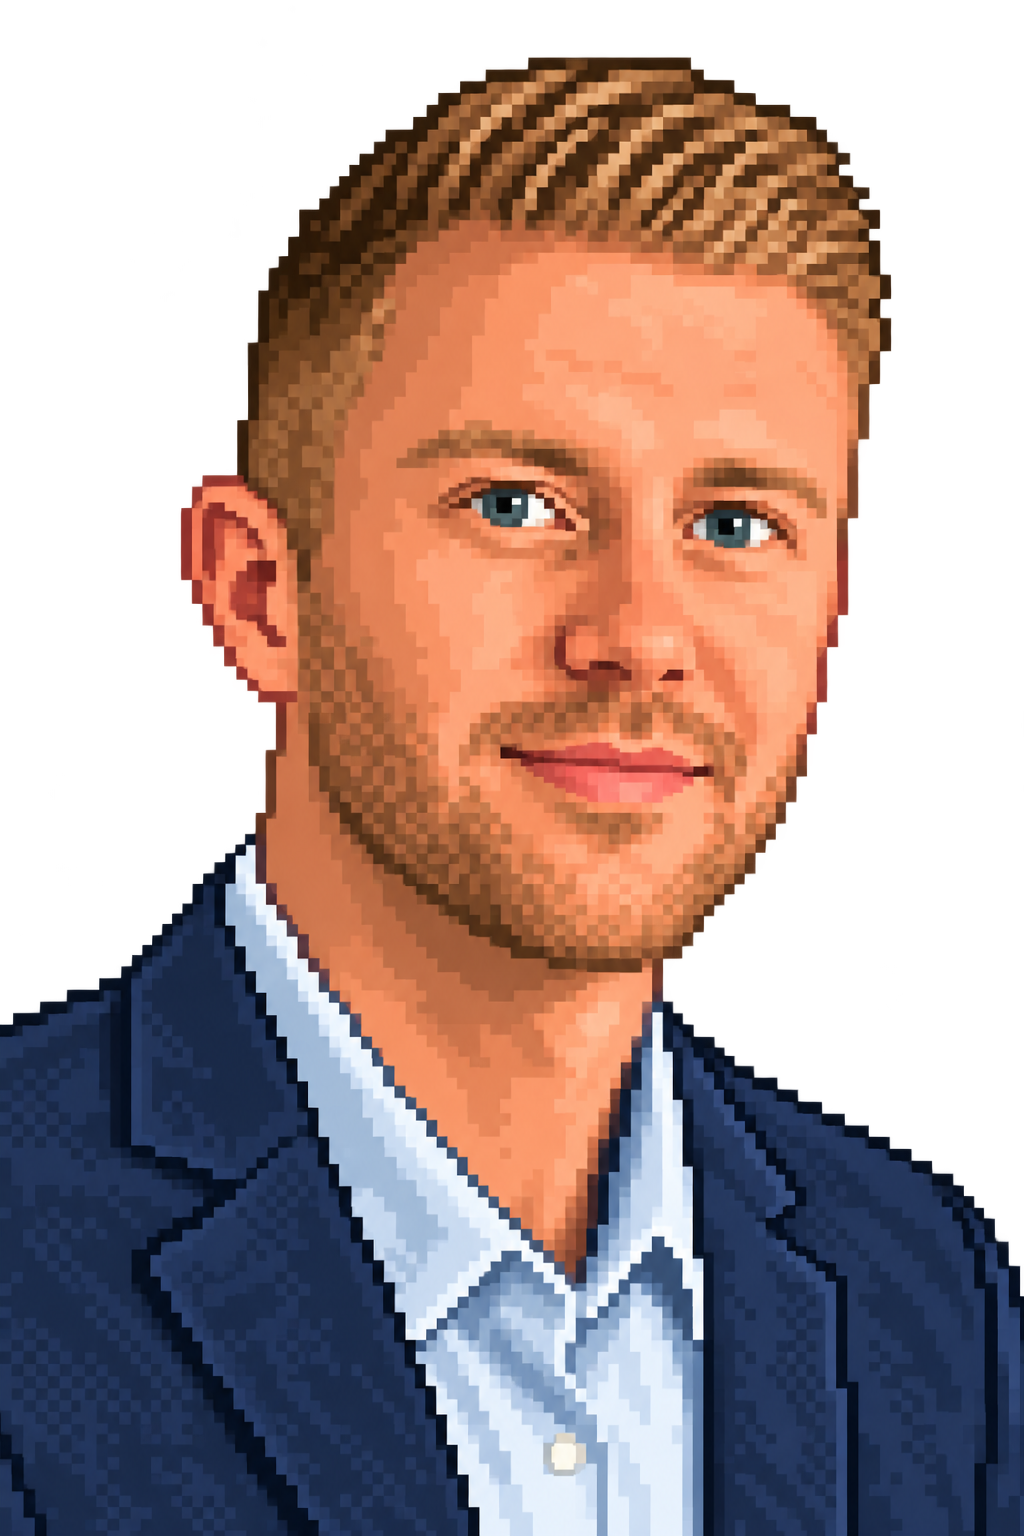
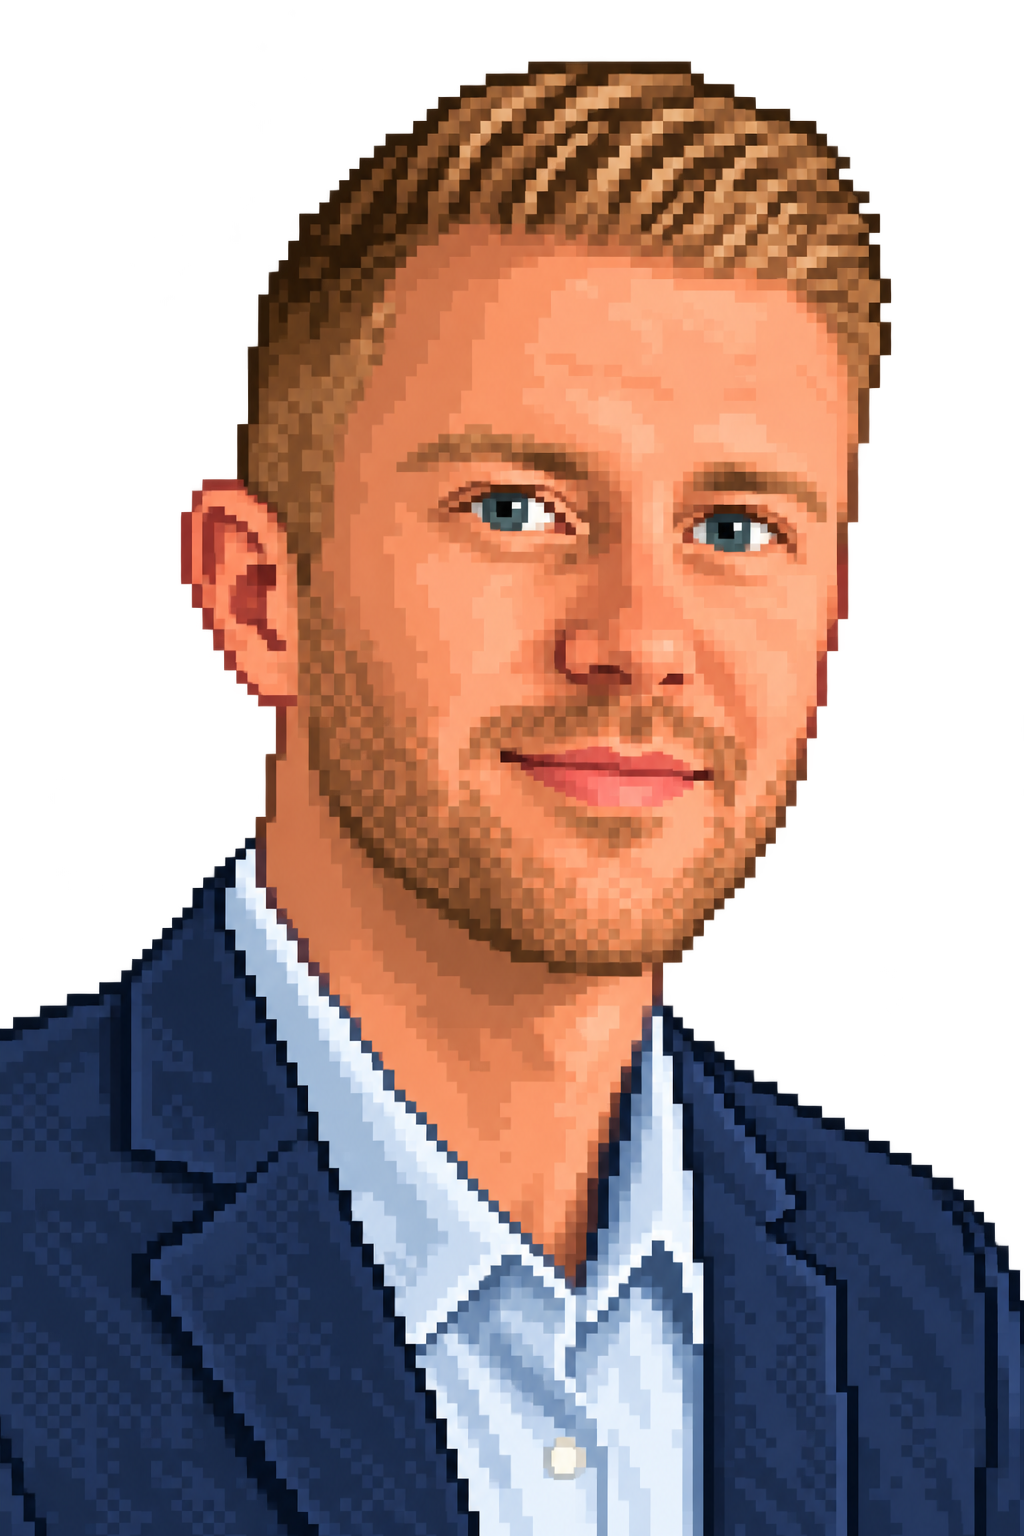
Add full screen and pop-out controls to the draft board, touch up commish art
draft.html/style.css: the board can now go full screen or pop out into its
own window (still the same live Realtime subscription) for easier viewing
during the draft.

diff --git a/draft.html b/draft.html
@@ -82,6 +82,11 @@
     <strong>Mock draft in progress</strong> — this is a rehearsal board. The real draft is untouched.
   </div>
 
+  <div class="board-toolbar">
+    <button type="button" class="btn secondary" id="board-fullscreen">⛶ Full screen</button>
+    <button type="button" class="btn secondary" id="board-popout">⧉ Pop out</button>
+  </div>
+
   <div class="board-wrap">
     <div id="board">Loading draft board…</div>
   </div>
@@ -871,7 +876,44 @@
     });
   }
 
+  function wireBoardControls() {
+    const boardWrap = document.querySelector(".board-wrap");
+    const fsBtn = document.getElementById("board-fullscreen");
+    const popoutBtn = document.getElementById("board-popout");
+
+    if (document.fullscreenEnabled === false) {
+      fsBtn.hidden = true;
+    } else {
+      fsBtn.addEventListener("click", () => {
+        if (document.fullscreenElement) {
+          document.exitFullscreen();
+        } else {
+          boardWrap.requestFullscreen().catch(() => {});
+        }
+      });
+      document.addEventListener("fullscreenchange", () => {
+        const active = document.fullscreenElement === boardWrap;
+        fsBtn.textContent = active ? "⛶ Exit full screen" : "⛶ Full screen";
+        boardWrap.classList.toggle("is-fullscreen", active);
+      });
+    }
+
+    popoutBtn.addEventListener("click", () => {
+      const url = new URL(location.href);
+      url.searchParams.set("popout", "1");
+      window.open(url.toString(), "hmc-draft-board", "width=1400,height=900,noopener");
+    });
+
+    // A popped-out window is just this page with the extra chrome hidden —
+    // it stays on the same live Realtime subscription, so no separate page
+    // to keep in sync.
+    if (new URLSearchParams(location.search).has("popout")) {
+      document.body.classList.add("popout-mode");
+    }
+  }
+
   async function init() {
+    wireBoardControls();
     sb = getSupabaseClient();
     if (!sb) {
       document.getElementById("board").innerHTML = `<p style="padding:16px;color:var(--text-dim);">

diff --git a/assets/style.css b/assets/style.css
@@ -582,11 +582,38 @@ table.scoring-table th { color: var(--text-dim); font-weight: 600; }
   white-space: nowrap;
 }
 
+.board-toolbar {
+  display: flex;
+  justify-content: flex-end;
+  gap: 8px;
+  margin-bottom: 8px;
+}
+
 .board-wrap {
   overflow-x: auto;
   border: 1px solid var(--border);
   border-radius: var(--radius);
 }
+
+.board-wrap:fullscreen {
+  overflow: auto;
+  background: var(--bg);
+  padding: 16px;
+  border: none;
+  border-radius: 0;
+}
+
+/* Popped-out window: same live page, just the surrounding chrome hidden so
+   the board is the whole thing. */
+body.popout-mode .site-header,
+body.popout-mode .draft-meta,
+body.popout-mode .mock-draft,
+body.popout-mode .available-players,
+body.popout-mode .note-box,
+body.popout-mode .site-footer {
+  display: none;
+}
+body.popout-mode .page-header { margin-bottom: 12px; }
 
 table.board {
   border-collapse: collapse;
